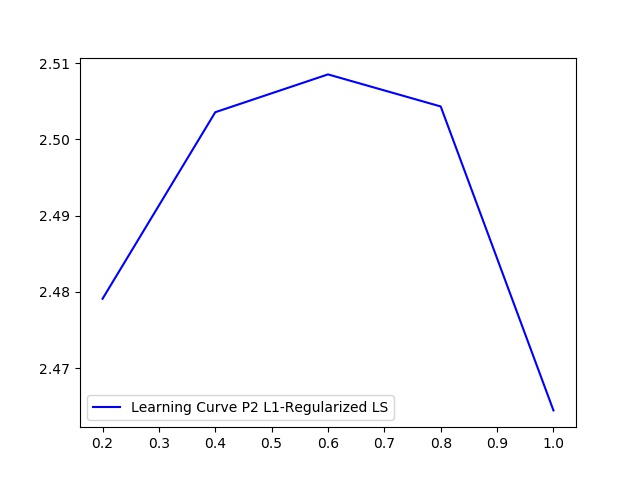
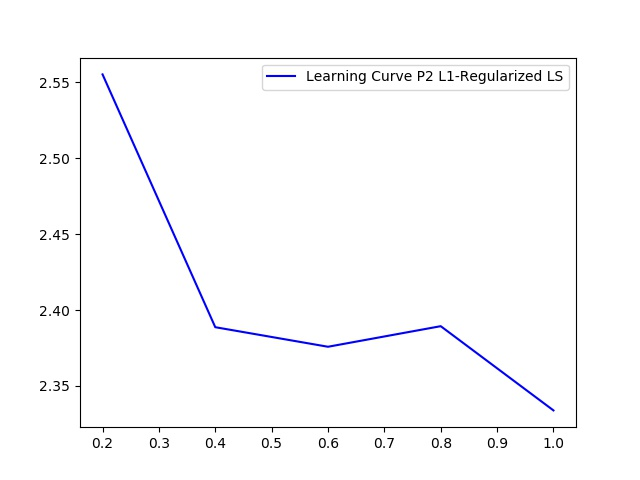
edit poly function

diff --git a/PA-1/PA1_Imp.py b/PA-1/PA1_Imp.py
@@ -21,20 +21,23 @@ NAME_MAP = {'LS':'Least Square Regression',
 
 # define the polynomial function
 def poly_function(x,order = 1):
-    if(len(x.shape)<2):
+    if(len(x)<2):
         return np.array([m.pow(x,i) for i in range(0,order+1) ])
     else:
-        result = np.array([])
-        for column in x.T:
-            row_vect= np.array([])
-            for item in column:
-                row_vect = np.append(row_vect,np.array([m.pow(item,i) for i in range(1,order+1) ]))
-            result = np.append(result, row_vect)
+        row_vect = np.array([])
+        row_vect= np.append(row_vect,[1])
+        for item in x:
+            row_vect = np.append(row_vect,np.array([m.pow(item,i) for i in range(1,order+1) ]))
+
+#        for column in x.T:
+#            row_vect= np.array([])
+#            for item in column:
+#                row_vect = np.append(row_vect,np.array([m.pow(item,i) for i in range(1,order+1) ]))
+#            result = np.append(result, row_vect)
         
-        resT = result.reshape(x.shape[1],int(len(result)/x.shape[1])).T
-        resT = np.vstack((np.ones(x.shape[1]),resT))
-        return resT
-        
+#        resT = result.reshape(x.shape[1],int(len(result)/x.shape[1])).T
+#        resT = np.vstack((np.ones(x.shape[1]),resT))
+        return row_vect
 
 # load file from txt
 def load_file(filename = 'polydata_data_polyx.txt'):
@@ -66,8 +69,10 @@ def T(x):
 # x is a set of column vectors, get the transpose form of Φ matrix
 def PHIx(x,order=5,function='poly'):
     if(function == 'poly'):
-        mat = [poly_function(item,order) for item in x ]
-        #return np.transpose(np.array(mat))
+        if(len(x.shape)<2):
+            mat = [poly_function(item,order) for item in x ]
+        else:
+            mat = [poly_function(item,order) for item in x.T ]
         return T(np.array(mat))
     if(function == 'id'):
         return x
@@ -86,7 +91,7 @@ def obj_function(y,PHI,theta,Lambda=0,method='LS'):
 # Generate prediction according to the theta
 def predict(x,theta,function='poly'):
     if(function=='poly' or function == 'id'):
-        PHIX=PHIx(x,order=theta.shape[0]-1,function=function)
+        PHIX=PHIx(x,order=int((theta.shape[0]-1)/x.shape[0]),function=function)
         predections = np.dot(T(PHIX),theta)
         return predections
 
@@ -168,7 +173,7 @@ def posterior_BR(x,y,PHI,alpha=0.1,sigma=0.1):
 def predict_BR(x,miu_theta,SIGMA_theta,function='poly'):
 
     if(function=='poly' or function=='id'):
-        PHIX = PHIx(x,order=miu_theta.shape[0]-1,function=function)
+        PHIX = PHIx(x,order=int((miu_theta.shape[0]-1)/x.shape[0]),function=function)
         miu_star = np.dot(T(PHIX),miu_theta)
         sigma_theta_sqr = np.dot(np.dot(T(PHIX),SIGMA_theta),PHIX)
         return miu_star,sigma_theta_sqr

diff --git a/PA-1/PA1_experiment_P2.py b/PA-1/PA1_experiment_P2.py
@@ -13,8 +13,8 @@ def main():
     testx,testy,trainx,trainy = imp.load_dataset_P2()
 
     nopara_dict={'function':'id','order':1,'Lambda':0}
-    lambda_candict = {'Lambda':[0.1,0.25,0.5,1,2,5],'function':['id'],'order':[1]}
-    BR_candict = {'alpha':[0.1,0.5,1,5],'sigma':[0.1,0.5,1,5],'function':['id'],'order':[1]}
+    lambda_candict = {'Lambda':[0.1,0.25,0.5,1,2,5],'function':['id','poly'],'order':[2]}
+    BR_candict = {'alpha':[0.1,0.5,1,5],'sigma':[0.1,0.5,1,5],'function':['id','poly'],'order':[2]}
 
     opt_params = {}
     opt_params['LS'] = nopara_dict
@@ -33,7 +33,6 @@ def main():
             opt_params[key] = opt_para 
         else:
             continue
-        
         
     for key, value in NAME_MAP.items():
         params = opt_params[key]
